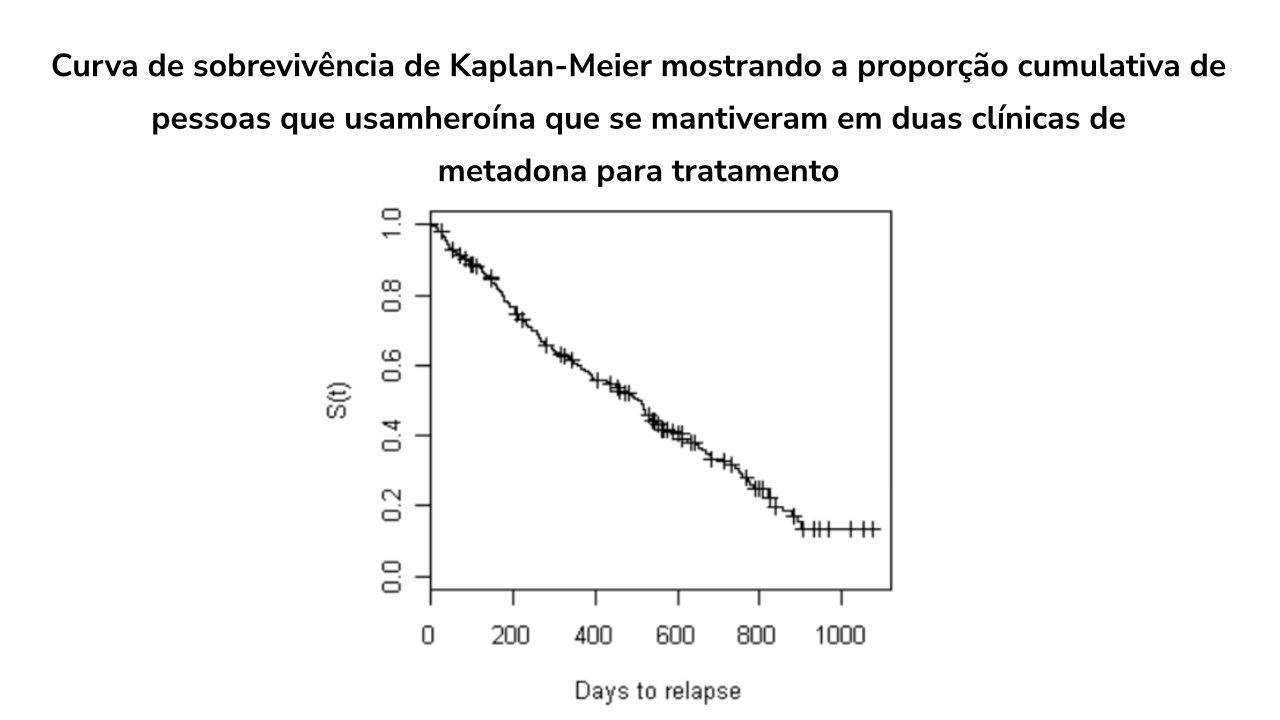
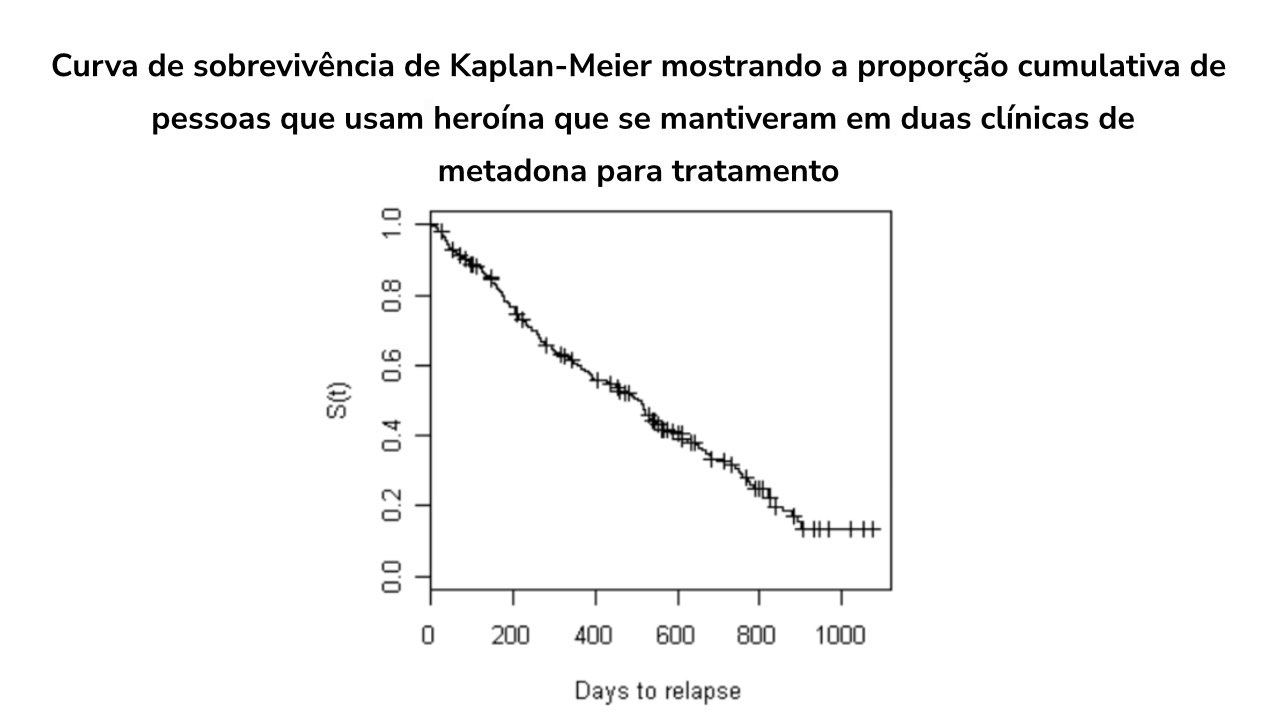
ajustes M3

Changed region(s): [[0.3125, 0.1222, 0.9062, 0.1833]]

diff --git a/modulo3/aula2/topico2.html b/modulo3/aula2/topico2.html
@@ -838,14 +838,14 @@
 							</div>
 
 							<div class="row justify-content-center">
-								<div class="col-12 col-md-10 col-lg-8 mb-5">
+								<div class="col-12 col-md-10 col-lg-8 mb-5 pb-5">
 									<p>O método de estimação por máxima verossimilhança é o principal método de estimação dos parâmetros do modelo de regressão logística. O teste de Wald é utilizado para testar a significância dos coeficientes do modelo e a Deviance para comparar os modelos ajustados. Existem também testes de diagnósticos específicos para avaliar os pressupostos do modelo. </p>
 								</div>
 							</div>
 
-							<div class="row justify-content-center">
+							<!-- <div class="row justify-content-center">
 								<div class="col-12 col-md-10 col-lg-8 mb-5 pb-5">
-									<!-- Saiba Mais -->
+									
 									<div class="saiba-mais">
 										<div class="row aos-init aos-animate" data-aos="fade-left" data-aos-easing="ease-out" data-aos-duration="600">
 											<div class="col-12 d-flex justify-content-center">
@@ -860,7 +860,7 @@
 										</div>
 									</div>
 								</div>
-							</div>
+							</div> -->
 
 							<div class="row justify-content-center">
 								<div class="col-12 col-md-10 col-lg-8 mb-5 pb-5">
